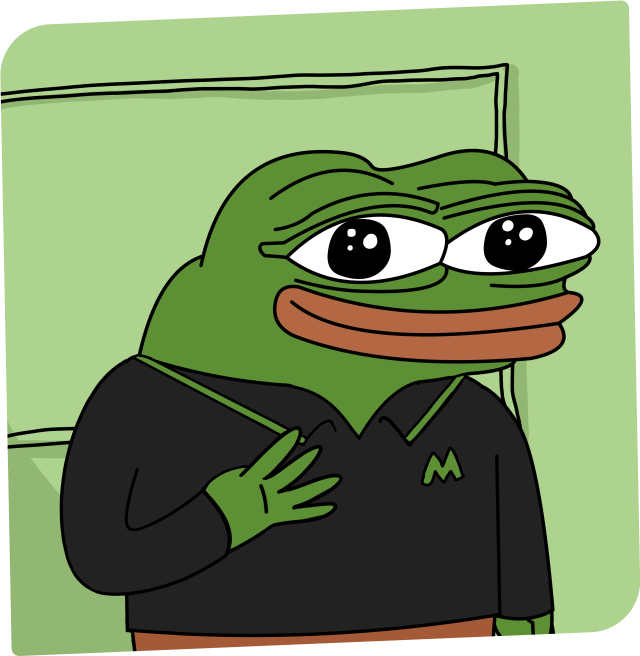
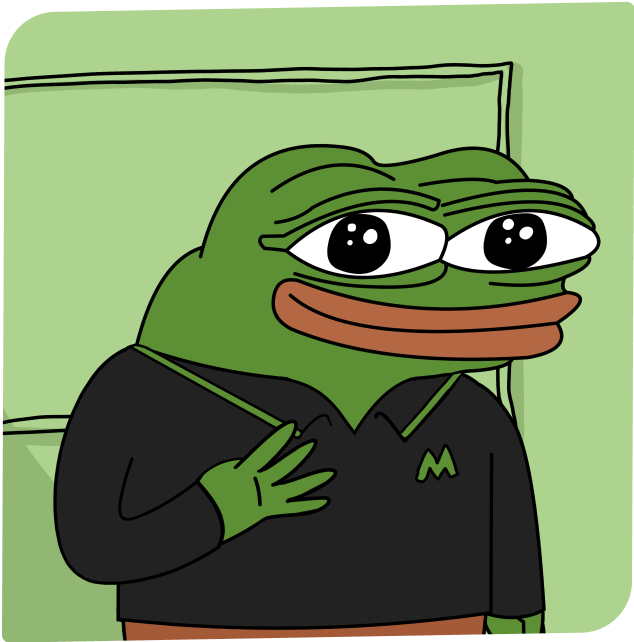
update

diff --git a/src/components/Marvmemes.tsx b/src/components/Marvmemes.tsx
@@ -13,15 +13,15 @@ const Marvmemes: FunctionComponent<MarvmemesType> = ({ className = "" }) => {
       <div className={[styles.subwrapper, className].join(" ")}>
         <div className={[styles.title, className].join(" ")}>MARVMEMES</div>
         <div className={[styles.componentbody, className].join(" ")}>
-          <Framecontainer className={className} color="linear-gradient(#FD8A8A, #AD5B5B)" image="/marvmemes/1.png" rotation="3deg"></Framecontainer>
-          <Framecontainer className={className} color="linear-gradient(#F9B889, #926546)" image="/marvmemes/2.png" rotation="3deg"></Framecontainer>
-          <Framecontainer className={className} color="linear-gradient(#58A098, #69C6BA)" image="/marvmemes/3.png" rotation="-3deg"></Framecontainer>
-          <Framecontainer className={className} color="linear-gradient(#AC9CDB, #7462A6)" image="/marvmemes/4.png" rotation="3deg"></Framecontainer>
-          <Framecontainer className={className} color="linear-gradient(#FD8A8A, #AD5B5B)" image="/marvmemes/5.png" rotation="3deg"></Framecontainer>
-          <Framecontainer className={className} color="linear-gradient(#F9B889, #926546)" image="/marvmemes/6.png" rotation="-3deg"></Framecontainer>
-          <Framecontainer className={className} color="linear-gradient(#58A098, #69C6BA)" image="/marvmemes/7.png" rotation="3deg"></Framecontainer>
-          <Framecontainer className={className} color="linear-gradient(#AC9CDB, #7462A6)" image="/marvmemes/8.png" rotation="-3deg"></Framecontainer>
-          <Framecontainer className={className} color="linear-gradient(#AC9CDB, #7462A6)" image="/marvmemes/9.png" rotation="3deg"></Framecontainer>
+          <Framecontainer className={className} color="linear-gradient(#FD8A8A, #AD5B5B)" image="/marvmemes/1.png" rotation="2deg"></Framecontainer>
+          <Framecontainer className={className} color="linear-gradient(#F9B889, #926546)" image="/marvmemes/2.png" rotation="2deg"></Framecontainer>
+          <Framecontainer className={className} color="linear-gradient(#58A098, #69C6BA)" image="/marvmemes/3.png" rotation="-2deg"></Framecontainer>
+          <Framecontainer className={className} color="linear-gradient(#AC9CDB, #7462A6)" image="/marvmemes/4.png" rotation="2deg"></Framecontainer>
+          <Framecontainer className={className} color="linear-gradient(#FD8A8A, #AD5B5B)" image="/marvmemes/5.png" rotation="2deg"></Framecontainer>
+          <Framecontainer className={className} color="linear-gradient(#F9B889, #926546)" image="/marvmemes/6.png" rotation="-2deg"></Framecontainer>
+          <Framecontainer className={className} color="linear-gradient(#58A098, #69C6BA)" image="/marvmemes/7.png" rotation="2deg"></Framecontainer>
+          <Framecontainer className={className} color="linear-gradient(#AC9CDB, #7462A6)" image="/marvmemes/8.png" rotation="-2deg"></Framecontainer>
+          <Framecontainer className={className} color="linear-gradient(#AC9CDB, #7462A6)" image="/marvmemes/9.png" rotation="2deg"></Framecontainer>
         </div>
       </div>
     </section>
@@ -31,7 +31,7 @@ const Marvmemes: FunctionComponent<MarvmemesType> = ({ className = "" }) => {
 const Framecontainer=(props:{className:string,image:string,rotation:string,color:string})=>{
 
   return(
-    <div className={[styles.frame, props.className].join(" ")} style={{transform:"rotate("+props.rotation+")"}}>
+    <div className={[styles.frame, props.className].join(" ")} style={{transform:"rotate("+props.rotation+")",borderTopLeftRadius:"10px",borderBottomRightRadius:"10px"}}>
       <img
       className={[styles.frameimage, props.className].join(" ")}
         loading="lazy"
